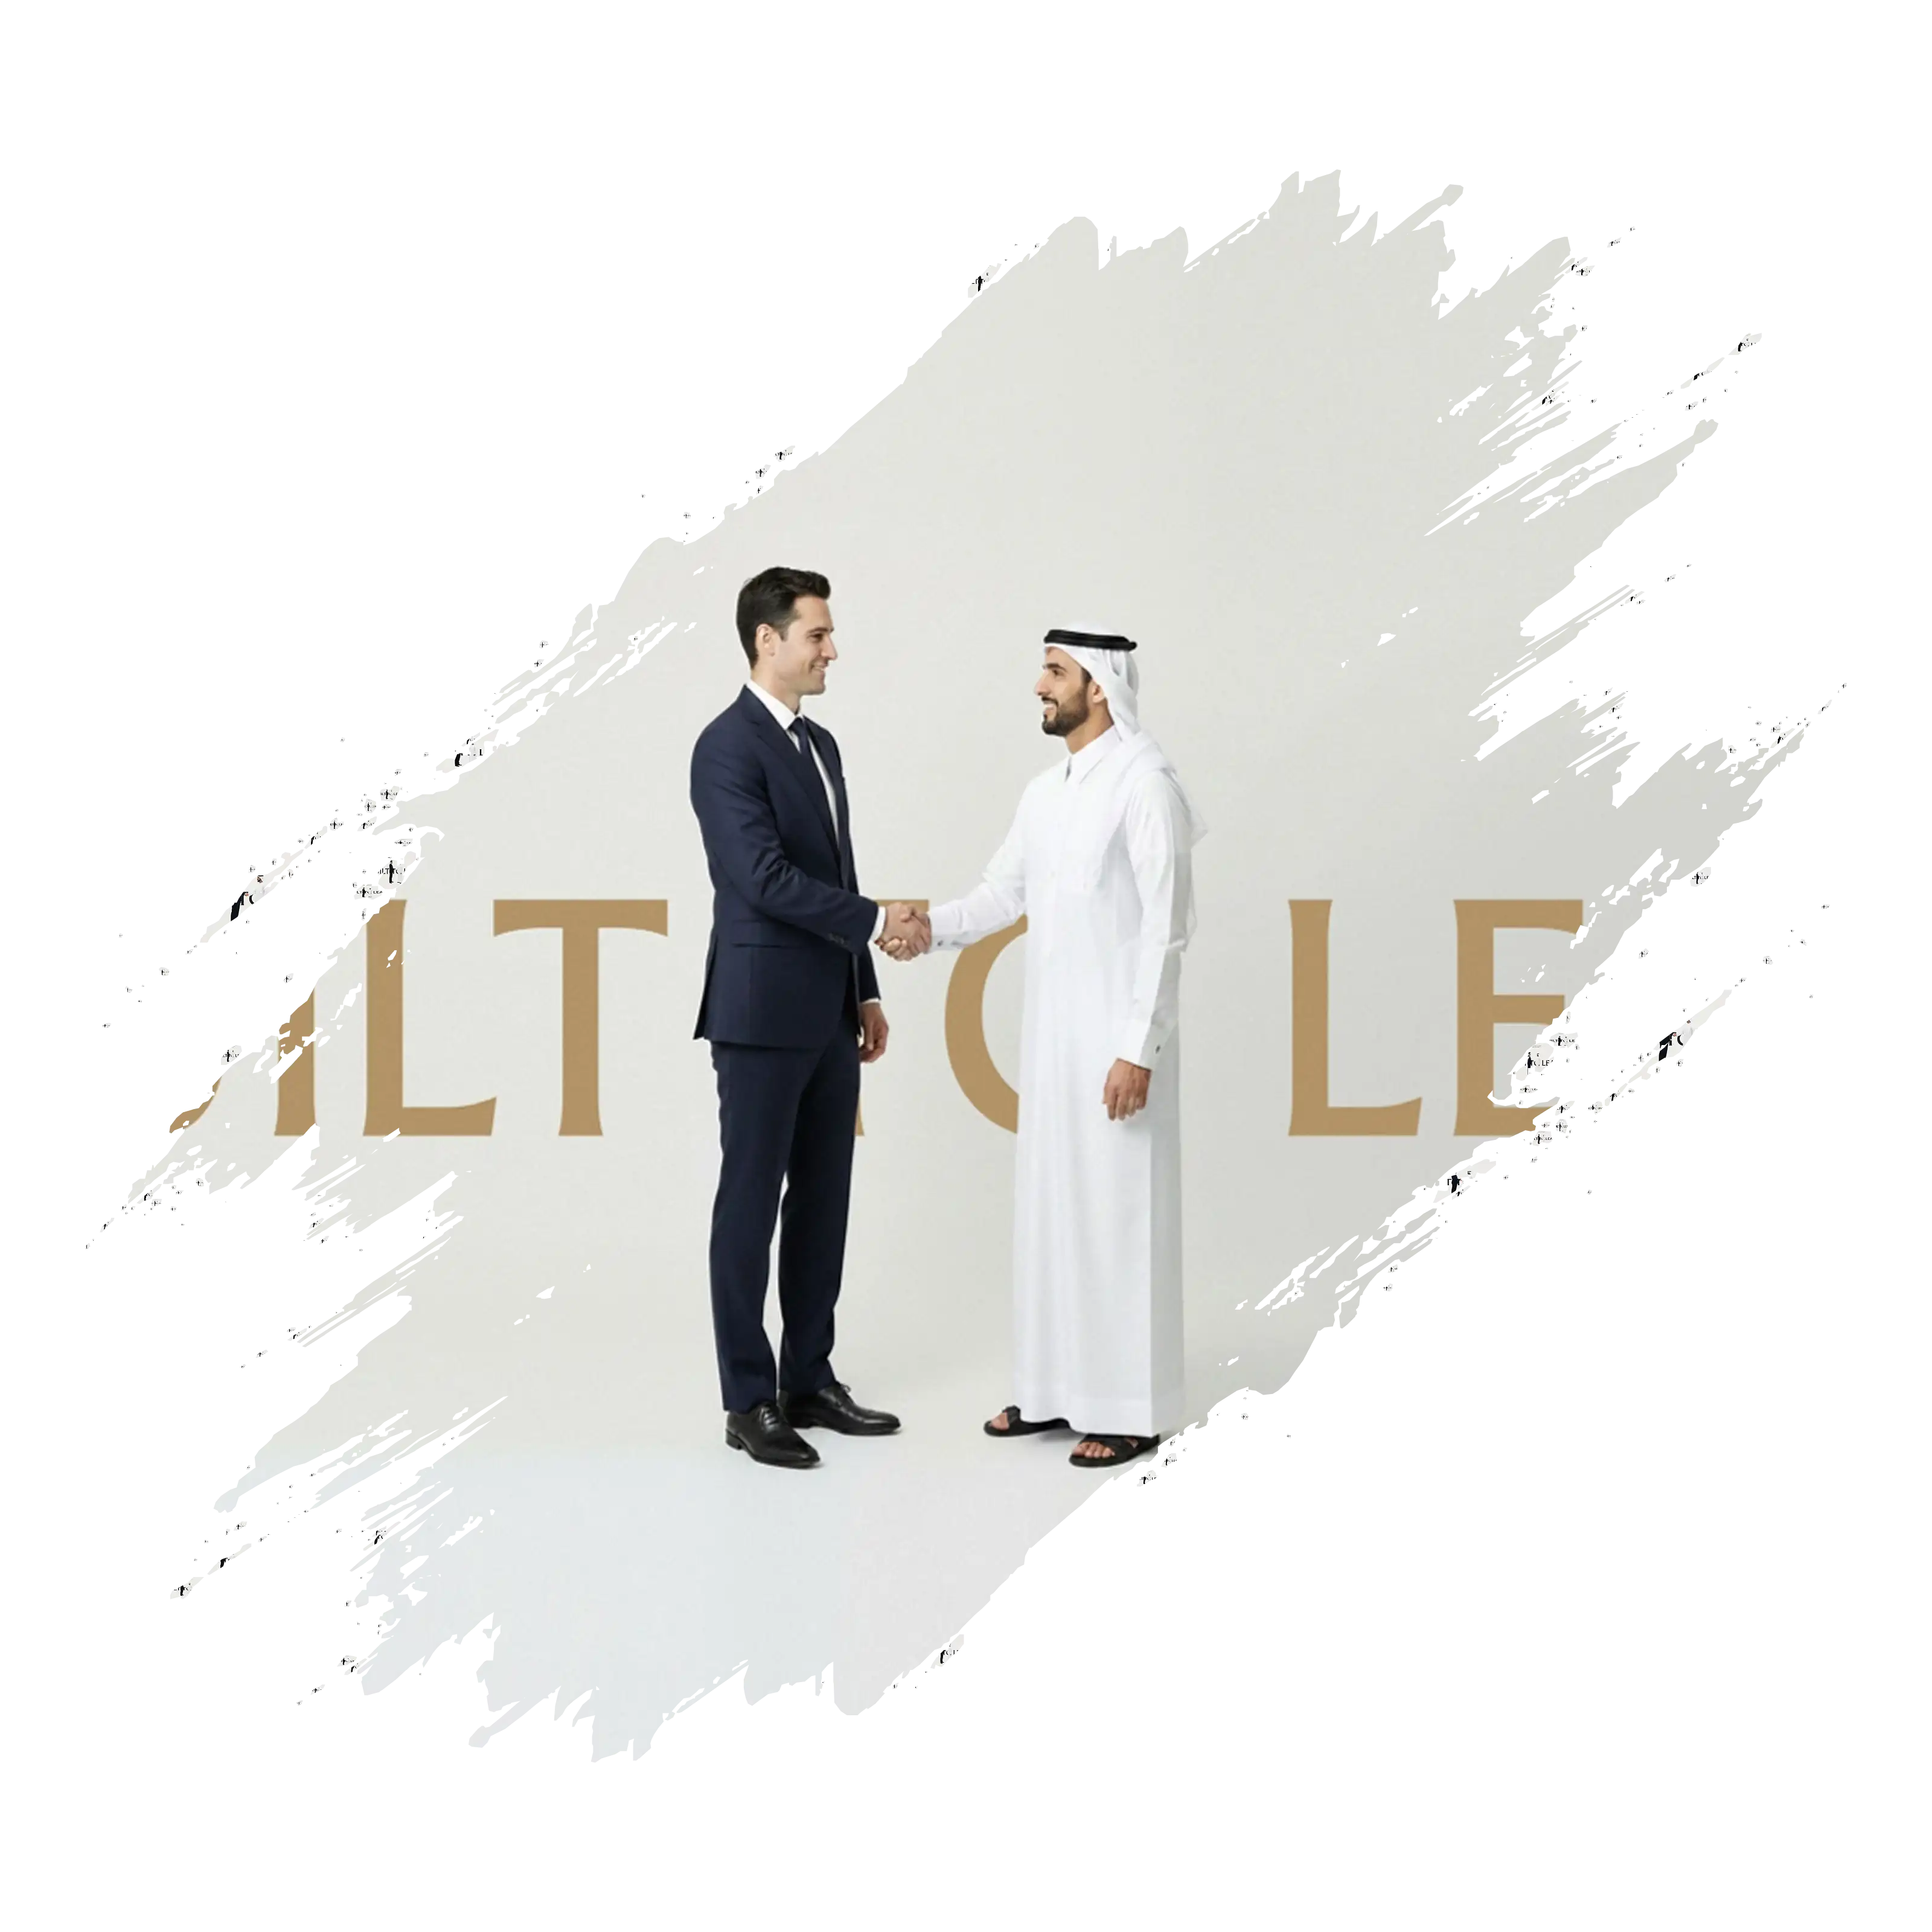
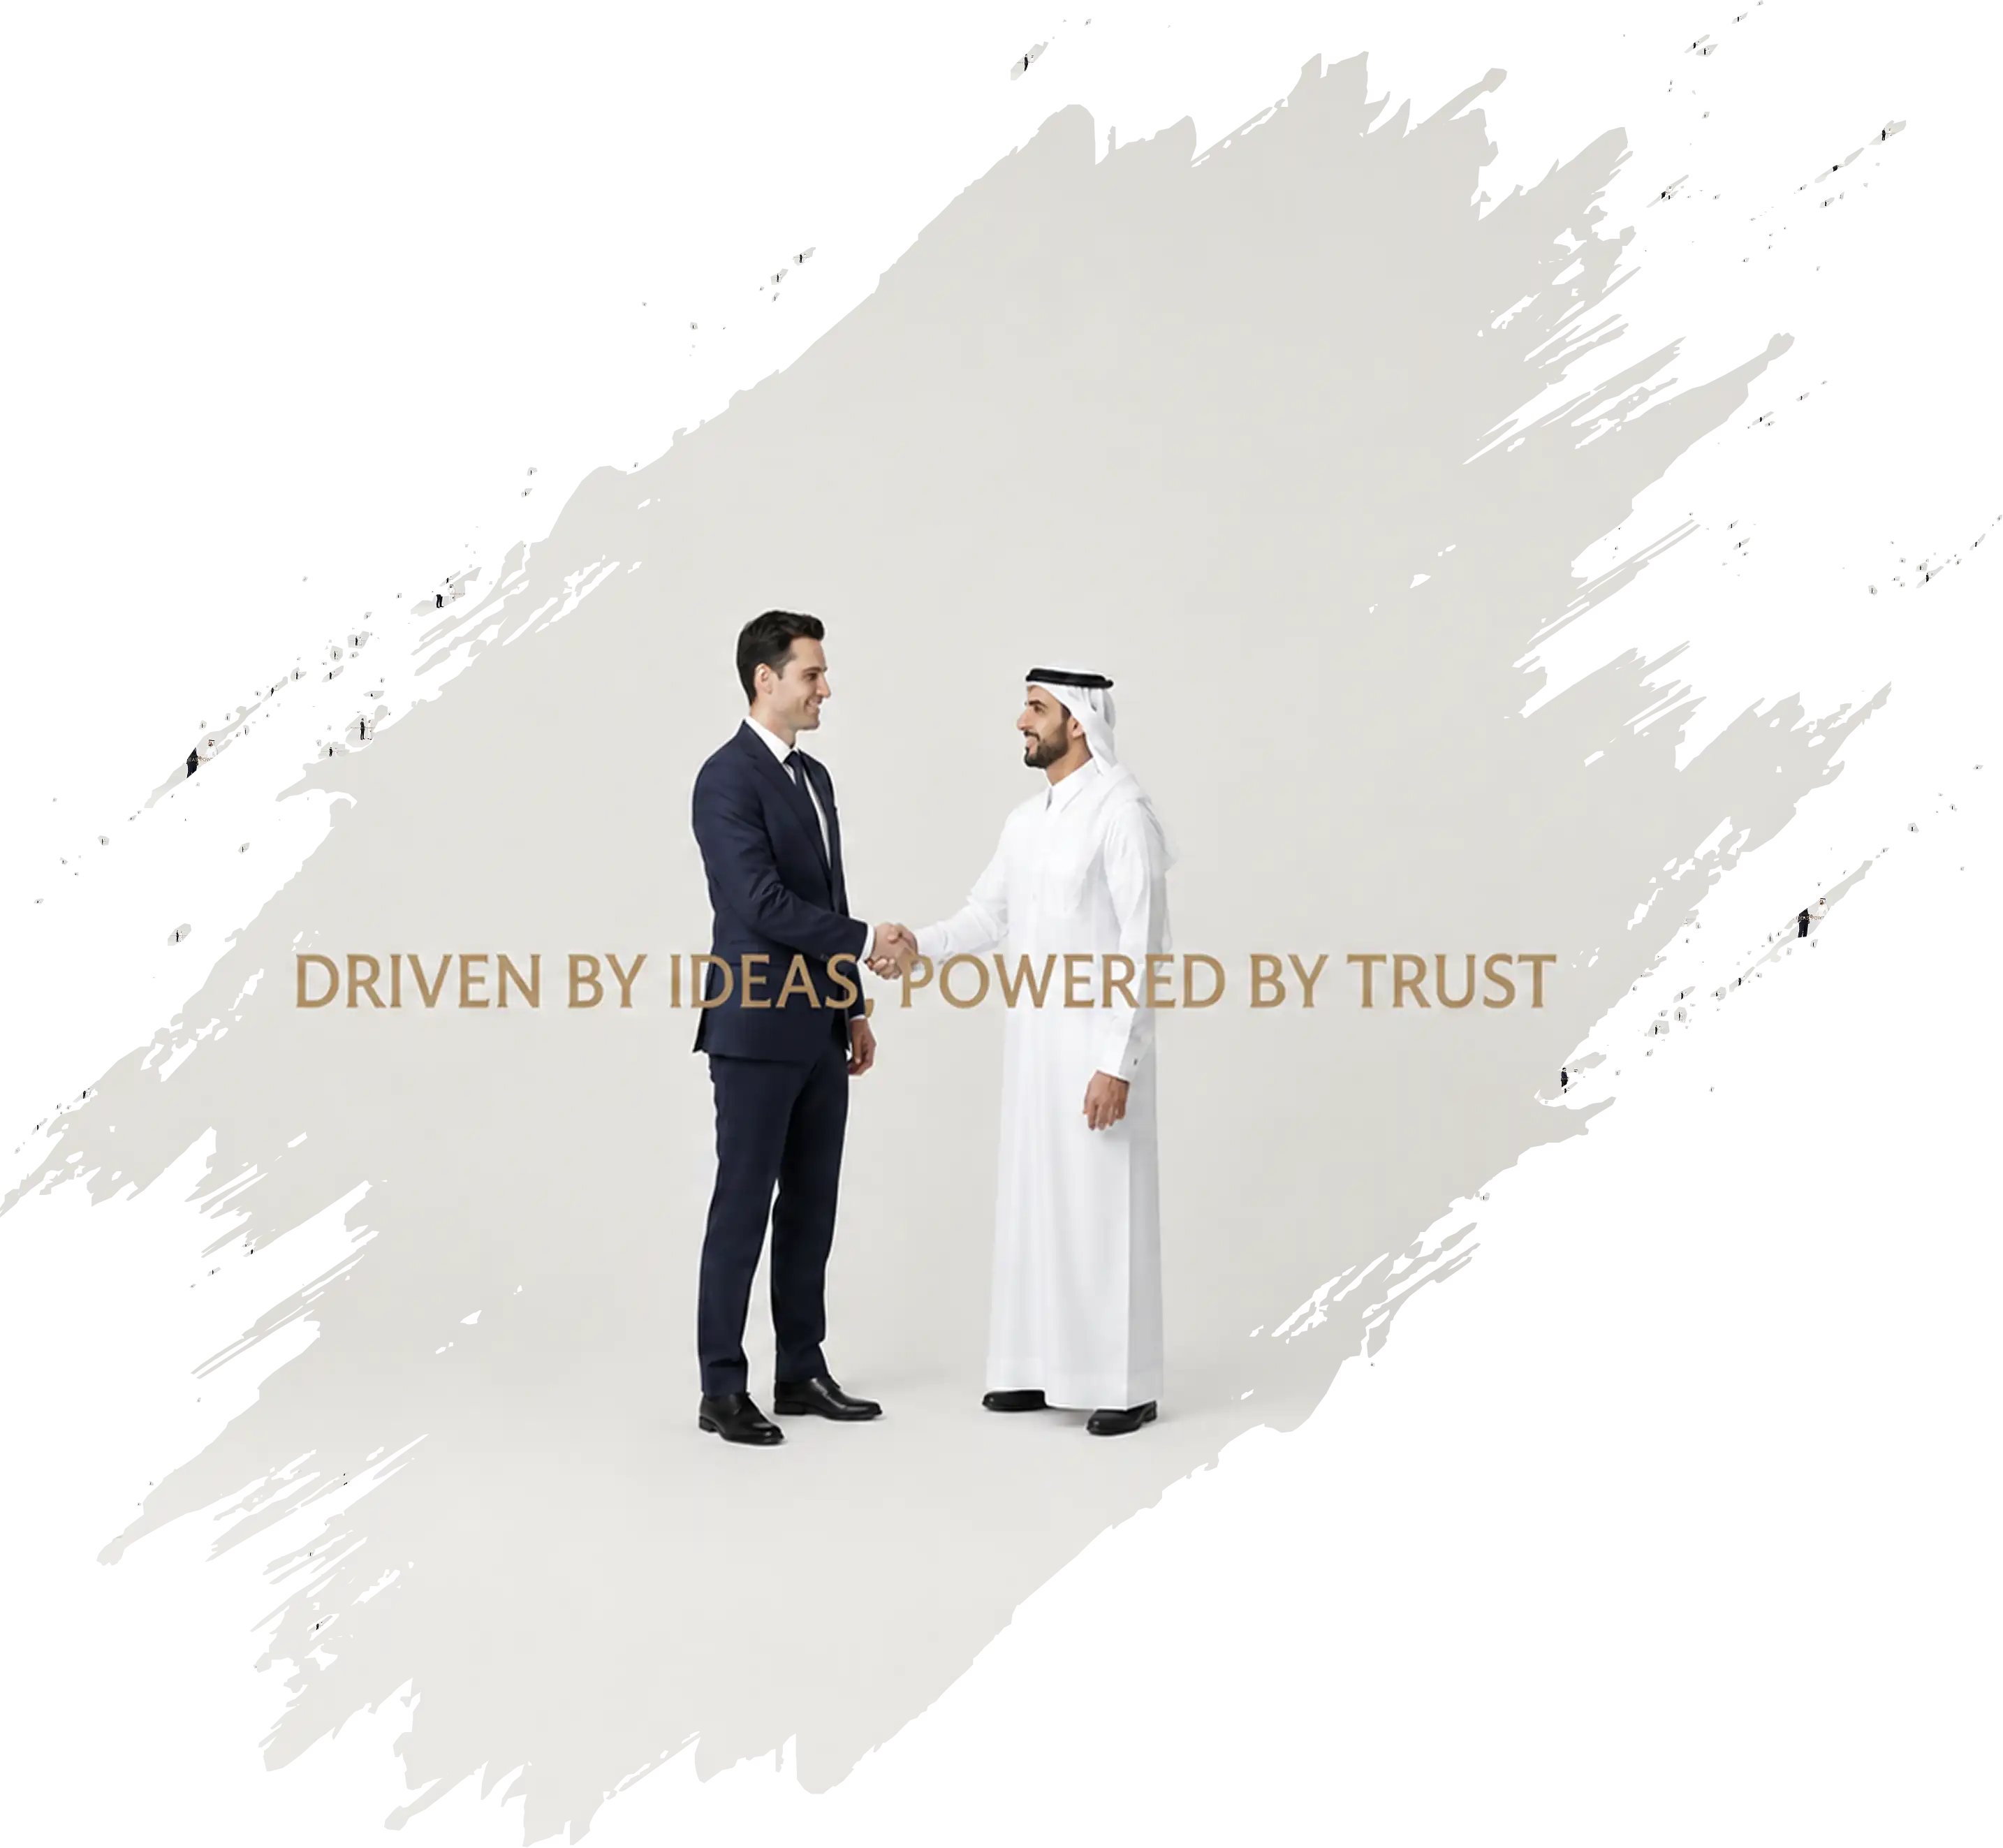
feat: implement landing page layout including Hero section, Footer, and central data configuration

Changed region(s): [[0.0, 0.031, 0.962, 1.0], [0.8999, 0.4649, 0.931, 0.4958], [0.8689, 0.4958, 0.8999, 0.5268]]

diff --git a/src/components/Footer.tsx b/src/components/Footer.tsx
@@ -13,9 +13,11 @@ const quickLinks = [
 ];
 
 const socialLinks = [
-  { icon: instagramIcon, label: "Instagram", href: "#" },
-  { icon: twitterIcon, label: "Twitter", href: "#" },
-  { icon: linkedinIcon, label: "LinkedIn", href: "#" },
+  {
+    icon: linkedinIcon,
+    label: "LinkedIn",
+    href: "https://www.linkedin.com/company/rimal-trading-group/",
+  },
 ];
 
 const Footer = () => {
@@ -38,11 +40,24 @@ const Footer = () => {
                 </a>
               ))}
             </div>
-            <div className="flex flex-col gap-2 pt-2">
-              <p>CR No.</p>
-              <p>Doha, Qatar</p>
-              <p>[email redacted]</p>
-              <p>+974 XXXXXXXX</p>
+            <div className="flex flex-col gap-2 pt-2 text-sm">
+              <p>
+                Rimal Trading Group, Lusail, Zone 69, St. 206, Building 45, 2nd
+                Floor, Unit# 2001 - P.O. BOX 36117, Doha, Qatar.
+              </p>
+              <p>
+                <span className="font-extrabold">C.R Number:</span> 220638
+              </p>
+              <p>
+                <span className="font-extrabold">Tel:</span> 4143 6200
+              </p>
+              <p>
+                <span className="font-extrabold">Mob:</span> 3035 0045
+              </p>
+              <p>
+                <span className="font-extrabold">Mail:</span>{" "}
+                <a href="mailto:[EMAIL_ADDRESS]">[email redacted]</a>
+              </p>
             </div>
           </div>
 

diff --git a/src/pages/Contact.tsx b/src/pages/Contact.tsx
@@ -4,6 +4,7 @@ import { useRef } from "react";
 import Layout from "@/components/Layout";
 import { siteContent } from "@/data/content";
 import { MapPin, Mail, Phone, Globe } from "lucide-react";
+import { Link } from "react-router-dom";
 
 const fadeUpVariant = {
   hidden: { opacity: 0, y: 40 },
@@ -18,7 +19,6 @@ const contactInfo = [
   { icon: MapPin, label: "Address", value: siteContent.company.address },
   { icon: Mail, label: "Email", value: siteContent.company.email },
   { icon: Phone, label: "Phone", value: siteContent.company.phone },
-  { icon: Globe, label: "Website", value: siteContent.company.website },
 ];
 
 const Contact = () => {
@@ -184,13 +184,10 @@ const Contact = () => {
                 </h3>
                 <div className="flex gap-6">
                   <span className="font-body text-sm text-foreground/50">
-                    @{siteContent.company.social.instagram}
-                  </span>
-                  <span className="font-body text-sm text-foreground/50">
-                    @{siteContent.company.social.twitter}
-                  </span>
-                  <span className="font-body text-sm text-foreground/50">
-                    @{siteContent.company.social.linkedin}
+                    <Link to="https://www.linkedin.com/company/rimal-trading-group/">
+                      <span className="font-bold">LinkedIn:</span> @
+                      {siteContent.company.social.linkedin}
+                    </Link>
                   </span>
                 </div>
               </motion.div>

diff --git a/src/data/content.ts b/src/data/content.ts
@@ -7,14 +7,12 @@ export const siteContent = {
       "Strategic Trading & Investment Group\nDriving Growth Through Vision and Trust.",
     founding: "2025",
     ceo: "Sheikh Alharith Al Thani",
-    email: "[email redacted]",
-    phone: "+974 0000 0077",
-    website: "rimalgroupqa.com",
-    address: "Rimal Avenue, Building 21\nFinancial Zone, Doha, Qatar",
+    email: "[email redacted]",
+    phone: "Tel: 4143 6200, Mob: 3035 0045",
+    address:
+      "Rimal Trading Group, Lusail, Zone 69, St. 206, Building 45, 2nd Floor, Unit# 2001 - P.O. BOX 36117, Doha, Qatar.",
     social: {
-      instagram: "rimalgroup_qa",
-      twitter: "rimal.qa",
-      linkedin: "rimalgroupqa",
+      linkedin: "rimal-trading-group",
     },
   },
   about: {

diff --git a/src/components/sections/HeroSection.tsx b/src/components/sections/HeroSection.tsx
@@ -14,7 +14,7 @@ const HeroSection = () => {
         <img
           src={heroImage}
           alt="Corporate partnership"
-          className="w-full h-full object-cover scale-150 lg:scale-100"
+          className="w-full h-full object-cover scale-150 lg:scale-90 overflow-visible"
         />
         <div className="absolute top-0 left-0 w-full h-full"></div>
       </div>